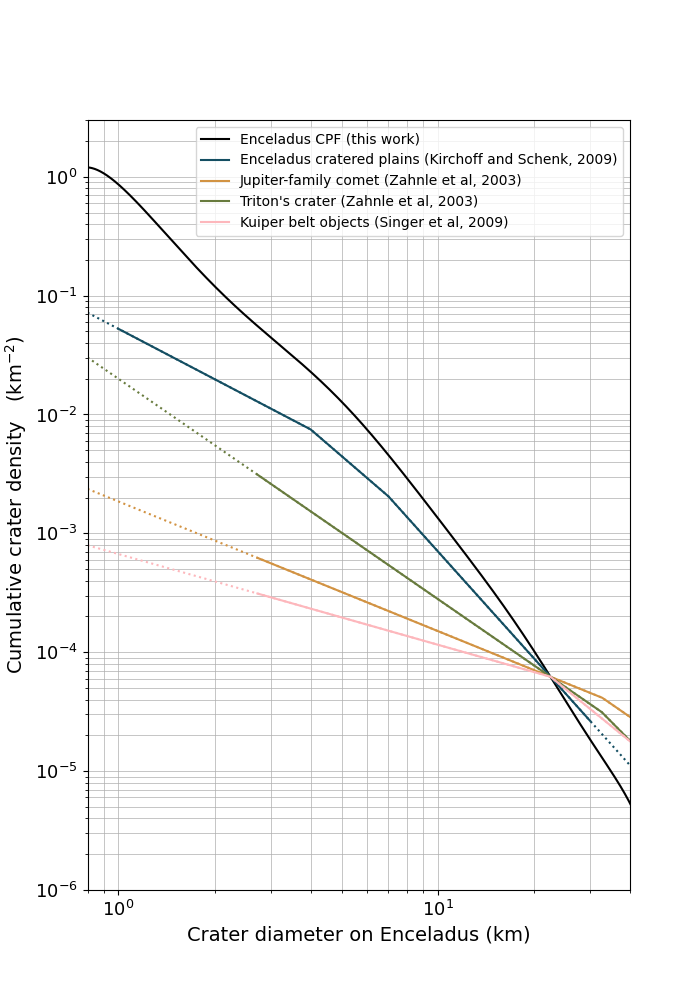
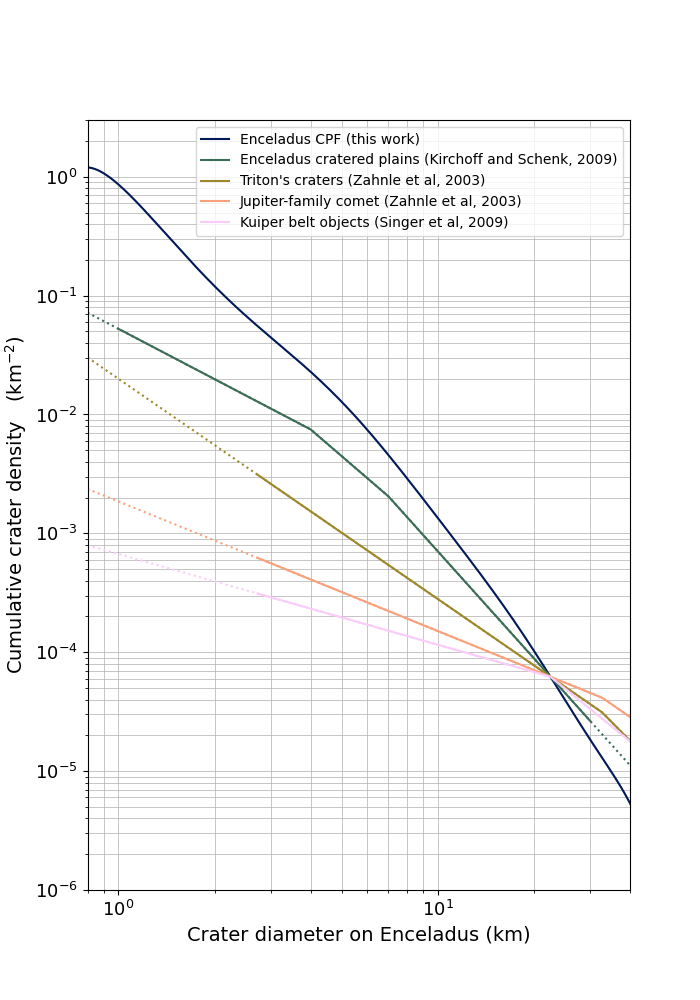
complete ~50% of first reviewer's comment

diff --git a/first_submission.tex b/first_submission.tex
@@ -85,10 +85,7 @@
 Interpreting Enceladus’s past and present surface history and interior state remains challenging, owing to uncertain prescription of its impact bombardment history and limited interpretation of its crater statistics. Further progress in understanding its evolutionary history can be achieved with an improved crater chronology model and a thorough assessment of Enceladus’s surface.
 Here we present the first step in the form of a comprehensive, global crater catalogue with geomorphology survey for Enceladus. From our dataset we build the crater production function (CPF), which is the underlying, unmodified crater size-frequency distribution of the satellite surface, assuming no subsequent modification.
 We obtained the CPF with a data-driven approach;  therefore it makes no assumptions about the impactor source population or planet evolution models or the timing of impact.
-We fit the CPF with a high-order polynomial as is customary for the Moon and Mars, capturing the slope variations across different crater diameter ranges.%indicating the waviness at different crater diameters. 
-The Enceladian CPF generally has a steeper cumulative slope than that of the Moon and Mars for small crater diameters $D_{\rm cr}<10$~km , as well as that of the size-frequency distribution of trans-Neptunian objects. This CPF serves as a critical observational input for an Enceladian crater chronology model, enabling the conversion of crater densities into absolute surface ages. Extending the crater cataloguing and CPF derivation of this study to other Saturnian satellites will determine whether the Enceladian CPF is unique; a shared CPF would indicate a common impactor population, providing  observational constraints on the size-frequency distribution of small bodies in the outer Solar System.\\
-  (253 words)
-%Future work will indicate whether the Enceladian CPF is unique or shared with the other nearby Saturnian satellites.
+We fit the CPF with a high-order polynomial as is customary for the Moon and Mars, indicating the waviness at different crater diameters. The Enceladian CPF generally has a steeper cumulative slope than that of the Moon and Mars for small crater diameters $D_{\rm cr}<10$~km , as well as that of the size-frequency distribution of trans-Neptunian objects. Future work will indicate whether the Enceladian CPF is unique or shared with the other nearby Saturnian satellites.
 \end{abstract}
 
 %%Research highlights
@@ -101,22 +98,29 @@ The Enceladian CPF generally has a steeper cumulative slope than that of the Moo
 \begin{keyword}
 Enceladus \sep Cratering \sep Impact process \sep Saturnian satellites
 %% keywords here, in the form: keyword \sep keyword
+
+%% PACS codes here, in the form: \PACS code \sep code
+
+%% MSC codes here, in the form: \MSC code \sep code
+%% or \MSC[2008] code \sep code (2000 is the default)
 \end{keyword}
 
 \end{frontmatter}
 
 %% Add \usepackage{lineno} before \begin{document} and uncomment
 %% following line to enable line numbers
-\linenumbers
+%% \linenumbers
 
 %% main text
+%%
+\linenumbers
 %% Use \section commands to start a section
 \section{Introduction}
 \label{intro}
 
 Enceladus exhibits ongoing cryovolcanic activity, most prominently expressed by plume emissions at its south pole observed by Cassini \citep{Porco2004,Spencer2006}. Multiple lines of evidence, including active degassing and physical libration, point to the presence of a subsurface ocean \citep{Thomas2016,Nimmo2023}. However, the internal heat required to sustain this activity exceeds expectations from tidal dissipation and radiogenic heating alone \citep{Meyer2007,Roberts2008}. Together with the coexistence of heavily cratered and smooth sparsely cratered terrains, this indicates a complex and evolving geological history. Constraining the timing and duration of this activity through robust surface age estimates is therefore essential.\\
 
-All key ingredients conventionally considered necessary for life have been identified on Enceladus. Its subsurface ocean contains organic molecules \citep{Peter2024} and the essential elements carbon, hydrogen, nitrogen, oxygen, phosphorus, and sulfur \citep{Hsu2015,Sekine2015,Bouquet2015,Choblet2017,Nimmo2018}, along with inferred energy sources such as tidal heating \citep{Thomas2016,Nimmo2023}, hydrothermal activity and water-rock chemical reactions \citep{Waite2017,Deamer2017,Choblet2017}. A critical, yet overlooked and poorly constrained, factor is the duration over which Enceladus has maintained these potentially habitable conditions. On Earth, microbial life emerged within ~0.5–0.7 Gyr after stable oceans formed 4.54 billion years ago \citep{Wilde2001,Nutman2016,Bell2015}, highlighting the importance of timescales for habitability. Determining the longevity of Enceladus’ internal activity therefore remains a central question.\\
+All key ingredients conventionally considered necessary for life have been identified on Enceladus. Its subsurface ocean contains organic molecules \citep{Peter2024} and the essential elements CHNOPS \citep{Hsu2015,Sekine2015,Bouquet2015,Choblet2017,Nimmo2018}, along with inferred energy sources such as tidal heating \citep{Thomas2016,Nimmo2023}, hydrothermal activity and water-rock chemical reactions \citep{Waite2017,Deamer2017,Choblet2017}. A critical, yet overlooked and poorly constrained, factor is the duration over which Enceladus has maintained these potentially habitable conditions. On Earth, microbial life emerged within ~0.5–0.7 Gyr after stable oceans formed 4.54 billion years ago \citep{Wilde2001,Nutman2016,Bell2015}, highlighting the importance of timescales for habitability. Determining the longevity of Enceladus’ internal activity therefore remains a central question.\\
 
 In the absence of sample-return data for radiometric dating, crater counting remains the primary method for reconstructing the geological history and surface evolution of icy satellites like Enceladus. By analysing the size-frequency distribution of impact craters, researchers can estimate relative and absolute surface ages, constraining the timing and duration of resurfacing events. However, interpreting crater records is challenging due to limited feasibility of observations of impactor population.
 In the Saturnian system, it remains uncertain whether the dominant impactors are heliocentric comets or system-internal debris. While localised features may reflect planetocentric populations \citep[e.g.][]{Cuk2016,Ferguson2022}, the prevailing consensus is that heliocentric impactors, especially those from the scattered disc, are the primary source of cratering across the outer solar system for craters above a few kilometres in diameter \citep{Shoemaker1982,Chapman1986,Zahnle1998,Hirata2016,Nesvorny2019,Wong2023,Nesvorny2023}. Planetocentric debris may dominate the production of smaller craters, though the exact diameter threshold is debated and likely depends on target properties such as surface material and average impact velocity \citep{Hirata2016,Bell2020}.\\
@@ -136,7 +140,8 @@ Early investigations of Enceladus, based on its orbital properties, predicted th
 \subsection{Previous crater counting on Enceladus}
 \citeauthor{Kirchoff2009} (\citeyear{Kirchoff2009}, \citeyear{Kirchoff2010}) conducted detailed, region-specific crater counts and surface unit mapping on Enceladus’ trailing hemisphere using Cassini images, analysing crater distributions on cratered plains and ridged plains. \citet{Kirchoff2009} defined manual crater identification criteria requiring at least one quarter of the crater rim to be visible. Diameters were measured rim-to-rim using one or two orthogonal measurements, while degraded craters were assessed from inferred centres and rim traces enhanced by contrast stretching. Only craters with diameters at least ten times the image resolution (e.g., $>$10 pixels) were included, minimising artificial roll-off in the size-frequency distribution. Non-impact circular features, such as collapse pits, were explicitly excluded.\\
 
-Crater counts from \citeauthor{Kirchoff2009} (\citeyear{Kirchoff2009}, \citeyear{Kirchoff2010}) were used to construct size-frequency distributions and spatial density maps for the trailing hemisphere. Within the Enceladian cratered plains, \citet{Kirchoff2009} subdivided the study area into two mid-latitude ($\sim$30$^{\circ}$N to $\sim$60$^{\circ}$N) and two equatorial ($\sim$50$^{\circ}$S to 40$^{\circ}$N) patches based on distinctive tectonic-like features to investigate spatial variation in crater density. The resulting dataset demonstrates strong heterogeneity in crater density among different regions, likely reflecting variations in resurfacing or geological history. Mid-latitude cratered plains contain approximately three times higher crater densities than equatorial plains, consistent with latitude-dependent resurfacing such as viscous relaxation or deposition from the south polar plume and E-ring. The study explicitly concludes that Enceladus’ crater distribution is modified and spatially heterogeneous. 
+Crater counts from \citeauthor{Kirchoff2009} (\citeyear{Kirchoff2009}, \citeyear{Kirchoff2010}) were used to construct size-frequency distributions and spatial density maps for the trailing hemisphere. Within the Enceladian cratered plains, \citet{Kirchoff2009} subdivided the study area into two mid-latitude ($\sim$30$^{\circ}$N to $\sim$60$^{\circ}$N) and two equatorial ($\sim$50$^{\circ}$S to 40$^{\circ}$N) patches based on distinctive tectonic-like features to investigate spatial variation in crater density. The resulting dataset demonstrates strong heterogeneity in crater density among different regions, likely reflecting variations in resurfacing or geological history. Mid-latitude cratered plains contain approximately three times higher crater densities than equatorial plains, consistent with latitude-dependent resurfacing such as viscous relaxation or deposition from the south polar plume and E-ring. The study explicitly concludes that Enceladus’ crater distribution is modified and spatially heterogeneous. \\
+
 In this study, the mapping of the trailing hemisphere units follows Fig~.4 of \citet{Kirchoff2009}, particularly the ridged plains, and further subdivides the four cratered plains from \citet{Kirchoff2009} into smaller units.\\
 
 In a later study, \citet{CrowWillard2015} present a global structural-geological map of Enceladus aimed at characterising tectonic organisation and deformation history instead of  cataloguing impact craters. In this framework, craters serve primarily as qualitative and semi-quantitative indicators, used alongside cross-cutting relationships of large-scale surface features to establish the relative ages of major tectonised terrains -- namely the trailing hemisphere, leading hemisphere, and south polar terrains -- as opposed to conducting comprehensive crater analysis. The crater density values cited in \citet{CrowWillard2015} largely derive from earlier studies, particularly \citet{Kirchoff2009}. While cratered terrains, covering $\sim$43\% of the surface, are identified, they were not subjected to size-frequency analysis. Nevertheless, the study provides valuable insights into how resurfacing across different terrains may have modified crater morphology and counts, and it serves as a key reference for global mapping, classification, and nomenclature based on surface morphology and resurfacing or formation history. For instance, the mapping of the leading hemisphere and south polar terrains in the present work follows \citet{CrowWillard2015}.\\
@@ -155,10 +160,7 @@ Here, we address these limitations by presenting the first global, unit-specific
 
 \subsection{Crater size-frequency measurement and distribution}
 \label{sub:sfd}
-Impact craters form on the solid crust of the satellites. The term ``{\it size-frequency distribution}" (SFD) refers to a model of a statistical relationship between the diameters of craters (in km) and their frequency of occurrence, which is expressed as per unit area (km$^{-2}$). Smaller craters are relatively more abundant than larger craters. 
-%We usually use power law expressions for 
-%Typically, power law expressoins are used for construction of the cumulative size-frequency distribution and can be written as
-The cumulative size-frequency distribution is commonly expressed as a power law:
+Impact craters form on the solid crust of the satellites. The term ``{\it size-frequency distribution}" (SFD) refers to a model of a statistical relationship between the diameters of craters (in km) and their frequency of occurrence, which is expressed as per unit area (km$^{-2}$). Smaller craters are relatively more abundant than larger craters. We usually use power law expressions for the cumulative size-frequency distribution, that can be written as
 \begin{equation}
   n_{\rm >D} \propto (D_0/D)^\alpha, %$N(>D) \propto (D_0/D)^{ \alpha}$,
 \end{equation}
@@ -166,17 +168,16 @@ where $D_0$ is a scaling diameter in km, and $\alpha$ is the cumulative slope fo
 
 It is important to distinguish between two related but distinct terms used to describe crater populations. \textit{Size–frequency measurements} refer to the raw crater counts derived from image surveys of a specific surface unit and plotted as discrete data points. These measurements are subsequently fitted and summarised as a \textit{size–frequency distribution}, which represents an idealised description of the observed crater population. \\
 
-The CPF, described in detail in Section~\ref{sub:intro_cpf}, represents the expected initial SFD for a planetary surface unmodified by the geological process. It is derived from physical considerations of the impactor population and cratering mechanics, assumed to be globally applicable with time-invariant impactor SFD shape, and makes no assumption regarding the impact flux.
-The distinction between the SFD and the CPF is that the SFD describes the observed crater population of a specific geological unit and is therefore surface-age dependent, whereas the CPF is (assumed to be) time-independent and represents the underlying impactor population. 
-The CPF can be applied to different surface units --- and, in principle, across planetary bodies sharing the same projectile population --- to predict the expected SFD for a given surface age, while observed SFDs provide the empirical basis for constraining the CPF.\\
+The CPF, described in detail in Section~\ref{sub:intro_cpf}, represents the expected initial SFD for a planetary surface. It is derived from physical considerations of the impactor population and cratering mechanics, and is assumed to be globally applicable and time-invariant, prior to modification by geological processes. \\
 
-Throughout this study, crater populations are presented as \textit{cumulative size–frequency distributions}, in which the number of craters larger than a given diameter is plotted as a function of diameter, resulting in a monotonically decreasing curve. We adopt cumulative representations because undisturbed crater populations on Enceladus exhibit more complex shapes than can be captured by a single or piecewise power-law form. 
-The relative (R-) plot, which normalises crater frequencies against a D$^{-3}$ reference slope, is not adopted here as it implicitly assumes the distribution remains close to that reference, which is not satisfied by the potentially complex, multi-slope character of the icy moons' CPF. Accordingly, in later sections we describe the derived CPF using a polynomial representation. \\
+The distinction between the SFD and the CPF is that the SFD describes the observed crater population of a specific geological unit and is therefore surface-age dependent, whereas the CPF is (assumed to be) time-independent and represents the underlying impactor population. The CPF can be applied to different surface units -- and, in principle, across planetary bodies sharing the same projectile population -- to predict the expected SFD for a given surface age, while observed SFDs provide the empirical basis for constraining the CPF.\\
+
+Throughout this study, crater populations are presented as \textit{cumulative size–frequency distributions}, in which the number of craters larger than a given diameter is plotted as a function of diameter, resulting in a monotonically decreasing curve. We adopt cumulative representations because undisturbed crater populations on Enceladus exhibit more complex shapes than can be captured by a single or piecewise power-law form. Accordingly, in later sections we describe the derived CPF using a polynomial representation. \\
 
 \section{The Crater Production Function}
 \label{sub:intro_cpf}
 The \textit{crater production function} (CPF) represents the underlying, unmodified crater size–frequency distribution on a planetary surface \citep{Neukum1975}. The CPF is presumed to remain unchanged over time \citep{Neukum1975,Neukum1983,Werner2014,Werner2023}, forming the basis for crater-based age estimates. Deviations between the actually observed crater SFD and the CPF yield insight into the satellite's geological history, in particular when specific areas were (partially) resurfaced (see Appendices B and C in \citet{Werner2009} for a detailed description).
-Although the assumption of a time-invariant CPF could be seen as a limitation, recent studies suggest it is broadly valid: \citet{Bottke2024} found that the SFD of the heliocentric projectiles in the outer solar system stabilised within $\sim$40 Myr of planetesimal formation and has remained largely unchanged for the past 4.3 Ga.\\
+Although the assumption of a time-invariant CPF could be seen as a limitation, recent studies suggest it is broadly valid: \citet{Bottke2024} found that the outer solar system projectile SFD stabilised within $\sim$40 Myr of planetesimal formation and has remained largely unchanged for the past 4.3 Ga. \\
 
 While several ``crater production functions'' have been proposed for outer Solar System satellites based on impactor models or limited crater datasets (e.g., \citealt{Zahnle2003, Kirchoff2009, Singer2019, Wong2023}), a fully observed, body-specific crater production function for Enceladus (or any icy satellite) has not previously been constructed. Here, we present an Enceladian crater production function by quantifying the spatial distribution and size–frequency characteristics of craters across all major surface units, yielding a functional description of the unaltered crater population that is internally consistent at the global scale. \\
 
@@ -190,21 +191,23 @@ For the lunar CPF in the inner Solar System, the Neukum-style formulation uses $
 Previous crater studies of Enceladus and the outer solar system icy satellites focused on specific terrains, particularly cratered plains, and inferred projectile SFDs from three main sources:
 a) Jupiter-family comets (yellow line in Fig.~\ref{fig:cpf_compare}), b) craters on Triton 
 and c) trans-Neptunian objects (pink line in Fig.~\ref{fig:cpf_compare}) \citep{Zahnle2003, Singer2019, Bottke2024}.
-Although these may all be viable sources, the comparisons rely on SFDs derived from different satellite systems (i.e., Jovian, Saturnian, Neptunian, and Pluto-Charon, respectively), where variations in planetary encounter velocities and therefore average impact velocities with the satellites, as well as material of the target surfaces, affect crater formation, potentially limiting their direct applicability to Enceladus and the other Saturnian satellites \citep{Neukum1983,Zahnle2003,DiSisto2007,DiSisto2011,DiSisto2013,DiSisto2016,Rossignoli2019,DiSisto2020,Rossignoli2022}.\\
+Although these may all be viable sources, the comparisons rely on SFDs derived from different satellite systems (i.e., Jovian, Saturnian, Uranian and Pluto-Charon, respectively), where variations in planetary encounter velocities and therefore average impact velocities with the satellites, as well as material of the target surfaces, affect crater formation, potentially limiting their direct applicability to Enceladus and the other Saturnian satellites \citep{Neukum1983,Zahnle2003,DiSisto2007,DiSisto2011,DiSisto2013,DiSisto2016,Rossignoli2019,DiSisto2020,Rossignoli2022}.\\
 
-Moreover, these projectile SFDs mainly describe kilometre-scale objects, with the best constraints for bodies with diameter $>$10~km. Yet, most observable craters on Enceladus range from a few hundred metres to 34~km in diameter. Given Enceladus’ low mass and the high impact velocities of heliocentric impactors (relative to some of the other mid-sized Saturnian satellites; \citealt{Zahnle2003, Wong2021}), most visible craters on Enceladus were formed by sub-kilometre impactors. Using the impactor-to-crater scaling law of \citet{Zahnle2003} for icy targets --- which depends various parameters such as surface gravity and mean impact velocity --- a 1~km impactor produces a crater of $\sim$22.6~km on Enceladus, larger than \emi (XX\%) \normalcolor the majority of craters in our catalogue. This sub-kilometre size range is precisely where the projectile remain largely unknown, making it unreliable for constructing a CPF. \\
+Moreover, these projectile SFDs mainly describe kilometre-scale objects, with the best constraints for bodies with diameter $>$10~km. Yet, most observable craters on Enceladus range from a few hundred metres to 34~km in diameter. Given Enceladus’ low mass and the high impact velocities of heliocentric impactors (relative to some of the other mid-sized Saturnian satellites; \citealt{Zahnle2003, Wong2021}), most visible craters on Enceladus were formed by sub-kilometre impactors. This is precisely the diameter range where the projectile population remains largely unknown, making it unreliable for constructing a CPF. \\
 
 \begin{figure}
     \centering
     \includegraphics[width=0.6\linewidth]{fig/Wongetal2025_fig1.png}
-    \caption{Enceladus crater production function and size-frequency distributions of craters and impactors in the outer Solar System. The displayed distributions include the Enceladus crater production function derived in this study (in blue), the crater size-frequency distribution fitted from the trailing hemisphere mid-latitude crater plains (\citet{Kirchoff2009}; in pine green), the impactor size-frequency distribution resembling Jupiter-family comets (case A from \citet{Zahnle2003}; in orange) and craters on Triton of the Neptunian satellite (case B from \citet{Zahnle2003}; in olive yellow), and Kuiper belt objects (\citet{Singer2019}; in pink). Impactor size-frequency distributions are converted to crater diameters using the \citet{Zahnle2003} crater scaling law for icy targets; adopting a different scaling law would horizontally shift the converted impactor distributions, but would not affect the observed crater-based production function. The dashed lines indicate diameter ranges where the distribution was not covered in the reference data but was extended with the cumulative slope of the adjacent diameter ranges.}
+    \caption{Enceladus crater production function and size-frequency distributions of craters and impactors in the outer Solar System. The displayed distributions include the Enceladus crater production function derived in this study (in black), the crater size-frequency distribution fitted from the trailing hemisphere mid-latitude crater plains (\citet{Kirchoff2009}; in blue), the impactor size-frequency distribution resembling Jupiter-family comets (case A from \citet{Zahnle2003}; in yellow) and craters on Triton of the Uranian satellite (case B from \citet{Zahnle2003}; in green), and Kuiper belt objects (\citet{Singer2019}; in pink). Impactor size-frequency distributions are converted to crater diameters using the \citet{Zahnle2003} crater scaling law for icy targets. The dashed lines indicate diameter ranges where the distribution was not covered in the reference data but was extended with the cumulative slope of the adjacent diameter ranges.}
     \label{fig:cpf_compare}
 \end{figure}
 
-Previously, \citet{Wong2023} assumed an outer Solar System-wide CPF derived from the Pluto-Charon craters \citep[pink line in Fig~\ref{fig:cpf_compare}]{Singer2019}. However, such a distribution does not match that of Enceladus or the other Saturnian satellites of previous studies \citep[pine green line]{Kirchoff2022}. Similarly, a CPF constructed from craters on other satellites in different systems, such as Ganymede, Callisto, and Europa of the Jovian system \citep[orange line]{Zahnle2003}, exhibit similar discrepancies \citep{Wong2023}. Consequently, no existing reference provides a CPF derived solely from Enceladus data, prompting the need to construct one. The CPF resulting from the work presented here is shown in black in Fig~\ref{fig:cpf_compare}. \\
+Previously, \citet{Wong2023} assumed an outer Solar System-wide CPF derived from the Pluto-Charon craters \citep[pink line in Fig~\ref{fig:cpf_compare}]{Singer2019}. However, such a distribution does not match that of Enceladus or the other Saturnian satellites of previous studies \citep[blue line]{Kirchoff2022}. Similarly, a CPF constructed from craters on other satellites in different systems, such as Ganymede, Callisto, and Europa of the Jovian system \citep[yellow line]{Zahnle2003}, exhibit similar discrepancies \citep{Wong2023}. Consequently, no existing reference provides a CPF derived solely from Enceladus data, prompting the need to construct one. The CPF resulting from the work presented here is shown in black in Fig~\ref{fig:cpf_compare}. \\
 
 \subsection{Challenges in deriving crater production functions from crater counts}
-Even when the CPF is inferred directly from crater counts on Enceladus, an accurate and unbiased representation is not guaranteed. Although extensive crater counts improve statistical precision, crater abundance alone is insufficient. Robust CPF modelling requires not only large datasets but also explicit consideration of how crater SFDs are modified by surface processes. On Enceladus, heavily cratered terrains, such as the northern mid-latitude plains, preserve abundant craters over a wide diameter range and are therefore commonly used as reference regions for crater-based age analyses. For example, \citet{Wong2023} adopted a broken power-law crater SFD fitted to the northern mid-latitude plains \citep{Kirchoff2009} to estimate surface ages on Enceladus. While this approach is appropriate for similarly cratered terrains or adjacent regions, systematic deviations emerge when the same SFD is applied to less cratered surfaces or to regions more distant from the reference area.\\
+Even when the CPF is inferred directly from crater counts on Enceladus, an accurate and unbiased representation is not guaranteed. Although extensive crater counts improve statistical precision, crater abundance alone is insufficient. Robust CPF modelling requires not only large datasets but also explicit consideration of how crater SFDs are modified by surface processes.\\
+
+On Enceladus, heavily cratered terrains, such as the northern mid-latitude plains, preserve abundant craters over a wide diameter range and are therefore commonly used as reference regions for crater-based age analyses. For example, \citet{Wong2023} adopted a broken power-law crater SFD fitted to the northern mid-latitude plains \citep{Kirchoff2009} to estimate surface ages on Enceladus. While this approach is appropriate for similarly cratered terrains or adjacent regions, systematic deviations emerge when the same SFD is applied to less cratered surfaces or to regions more distant from the reference area.\\
 
 These deviations do not necessarily indicate changes in the impactor population, but can instead arise from surface modification processes that preferentially affect smaller craters. Crater SFDs evolve over time, with the earliest and most pronounced effects at small diameters. Small craters are abundant, prone to overlap, and are selectively removed by obliteration from subsequent large impacts, erosion or burial by geological activity (such as plume fallout from cryovolcanism at Enceladus’ south pole), and observational incompleteness near image resolution limits. The primary limitation is image resolution (typically $\sim$100~m/pixel for high-resolution Cassini images of Enceladus), which hinders the detection of small craters (diameter $\lesssim$1 km) and causes a flattening of the distribution near the resolution threshold. Previous crater count studies (e.g., \citealt{Kirchoff2009, Kinczyk2024}) often identified craters below the resolution limit, but applied a cut-off above this limit to ensure completeness. \\
 
@@ -239,7 +242,7 @@ Furthermore, crater saturation happened in densely cratered units, where new imp
 \label{fig:resurface_exp}
 \end{figure}
 
-On Enceladus, the formation of geological structures and the deposition of plume material can modify crater records, particularly at small diameters, partially or entirely resetting crater counts. Surface morphologies -- including troughs, ridges, scarps, and fractures pit chains, listed here in decreasing scale and occurrence frequency \citep{CrowWillard2015, Martin2023} -- may form either before or after crater emplacement. When craters predate these structures, their preservation depends on the scale of deformation, such as the width of individual structures and the spacing between closely grouped features.\\
+On Enceladus, the formation of geological structures and the deposition of plume material can modify crater records, particularly at small diameters, partially or entirely resetting crater counts. Surface morphologies -- including troughs, ridges, scarps, and fractures pit chains, listed here in decreasing scale and occurrence frequency \citep{CrowWillard2015} -- may form either before or after crater emplacement. When craters predate these structures, their preservation depends on the scale of deformation, such as the width of individual structures and the spacing between closely grouped features.\\
 
 Cassini's images show geological structures intersecting and partially erasing craters in both heavily cratered plains (Fig.~\ref{fig:cp_exp} and Fig.~\ref{fig:cp_exp2}) and sparsely cratered ridge plains (Fig.~\ref{fig:rp_exp}). Figure~\ref{fig:cp_exp} shows the far-side equatorial cratered plains (Far-Eq-CP8), where craters smaller than, or comparable in size to, the intruding troughs ($\sim$ 2–10~km wide, depending on the structure) are susceptible to complete removal or severe degradation, effectively excluding them from crater counts. In contrast, only craters larger than the structural scale are likely to survive or remain detectable, as illustrated in the right panel of Fig.~\ref{fig:rp_exp}. In addition, small craters with initially shallow depths, depending on their depth-to-diameter ratios, may be more rapidly infilled by plume deposition \citep{Kirchoff2009}.\\
 
